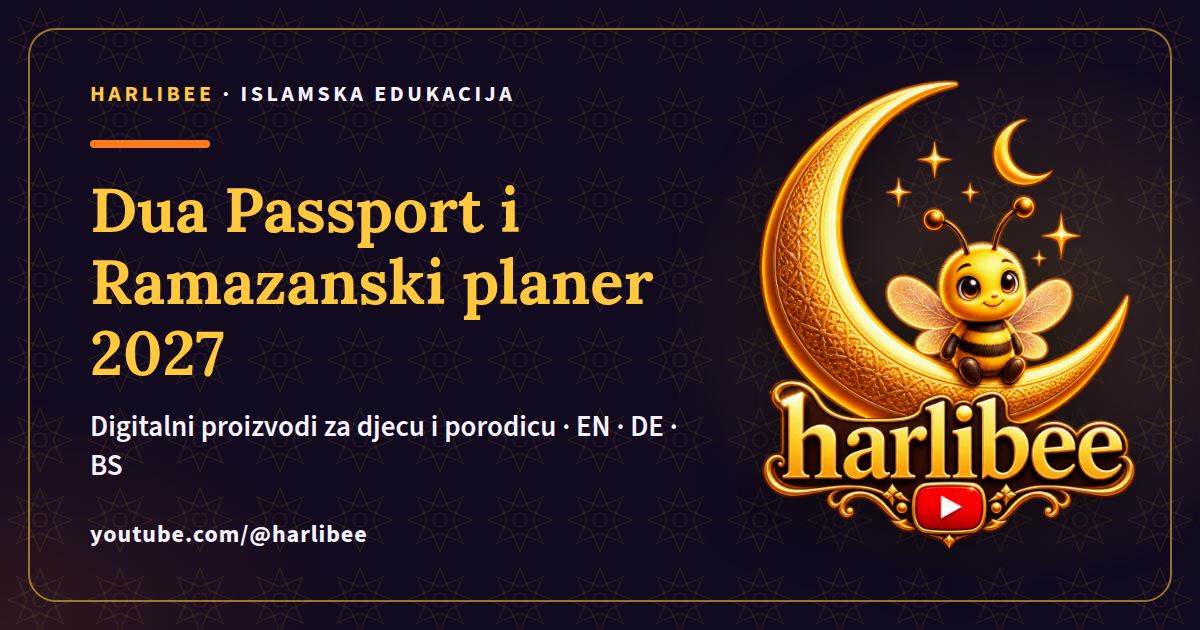
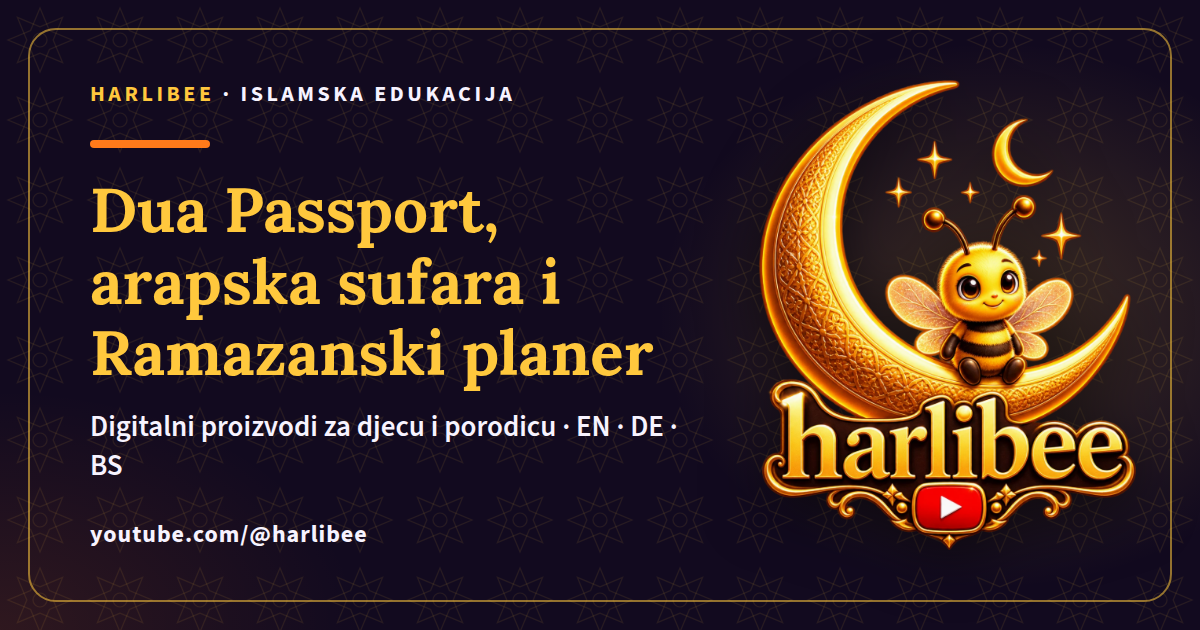
Proizvodi: dodane kartice arapskih harfova (Arabic Alphabet Flash Cards)
Treći proizvod na stranici /proizvodi/ i na početnoj (sada tri kartice u
redu), s opisom na bosanskom, cijenom, slikama i linkom na Payhip.
Strukturirani podaci, opis stranice i Open Graph slika ažurirani; cijena
na karticama je sada zlatna kao na stranici proizvoda.

Claude-Session: https://claude.ai/code/session_01NZznYVfF15sJZXw3qxt21U

Changed region(s): [[0.0617, 0.3016, 0.555, 0.6333]]

diff --git a/proizvodi/index.html b/proizvodi/index.html
@@ -4,7 +4,7 @@
   <meta charset="utf-8">
   <meta name="viewport" content="width=device-width, initial-scale=1">
   <title>Digitalni proizvodi | Harlibee</title>
-  <meta name="description" content="Little Muslim&#x27;s Dua Passport i Ramazanski planer 2027 s dnevnikom za djecu: materijali za štampanje na engleskom, njemačkom i bosanskom, dostupni na Payhipu.">
+  <meta name="description" content="Little Muslim&#x27;s Dua Passport, kartice arapskih harfova i Ramazanski planer 2027 s dnevnikom za djecu: materijali za štampanje na engleskom, njemačkom i bosanskom, dostupni na Payhipu.">
   <link rel="canonical" href="https://br0nhi.github.io/harlibee/proizvodi/">
   <meta name="theme-color" content="#120A1F">
   <meta name="color-scheme" content="dark">
@@ -18,13 +18,13 @@
   <meta property="og:site_name" content="Harlibee">
   <meta property="og:locale" content="bs_BA">
   <meta property="og:title" content="Digitalni proizvodi">
-  <meta property="og:description" content="Little Muslim&#x27;s Dua Passport i Ramazanski planer 2027 s dnevnikom za djecu: materijali za štampanje na engleskom, njemačkom i bosanskom, dostupni na Payhipu.">
+  <meta property="og:description" content="Little Muslim&#x27;s Dua Passport, kartice arapskih harfova i Ramazanski planer 2027 s dnevnikom za djecu: materijali za štampanje na engleskom, njemačkom i bosanskom, dostupni na Payhipu.">
   <meta property="og:url" content="https://br0nhi.github.io/harlibee/proizvodi/">
   <meta property="og:image" content="https://br0nhi.github.io/harlibee/assets/img/og/og-proizvodi.png">
   <meta property="og:image:type" content="image/png">
   <meta property="og:image:width" content="1200">
   <meta property="og:image:height" content="630">
-  <meta property="og:image:alt" content="Digitalni proizvodi Harlibee: Dua Passport i Ramazanski planer">
+  <meta property="og:image:alt" content="Digitalni proizvodi Harlibee: Dua Passport, kartice arapskih harfova i Ramazanski planer">
   <meta name="twitter:card" content="summary_large_image">
 
   <link rel="preload" href="../assets/fonts/SourceSans3-400-latin.woff2" as="font" type="font/woff2" crossorigin>
@@ -47,6 +47,20 @@
           "priceCurrency": "EUR",
           "availability": "https://schema.org/InStock",
           "url": "https://payhip.com/b/m3DeU"
+        }
+      },
+      {
+        "@type": "Product",
+        "name": "Arabic Alphabet Flash Cards",
+        "description": "Kartice za učenje 28 arapskih harfova, vježbe pisanja, poster sufare i 4 zidne slike. Za djecu od 3 do 8 godina, na engleskom, njemačkom i bosanskom.",
+        "image": "https://br0nhi.github.io/harlibee/assets/img/proizvodi/arapska-sufara.webp",
+        "url": "https://br0nhi.github.io/harlibee/proizvodi/#arapska-sufara",
+        "offers": {
+          "@type": "Offer",
+          "price": "5.99",
+          "priceCurrency": "EUR",
+          "availability": "https://schema.org/InStock",
+          "url": "https://payhip.com/b/r8ORU"
         }
       },
       {
@@ -131,6 +145,36 @@
             <p><strong>Dove u pasošu:</strong> buđenje, prije spavanja, prije i poslije jela, ulazak u toalet i izlazak iz njega, ulazak u kuću i izlazak iz nje, ulazak u džamiju i izlazak iz nje, gledanje u ogledalo, kihanje, putovanje, kiša, kad vidiš nešto lijepo, traženje zaštite, briga, zahvaljivanje, selam, kad se desi nešto dobro, prije učenja, za roditelje, kad je nešto teško, za lijep život, kad pogriješim, nakon abdesta, posjeta bolesniku, za moju porodicu, za čvrsto srce i salavat na Poslanika ﷺ.</p>
             <p>Za djecu od 4 do 10 godina, za mekteb, vikend-školu, učenje kod kuće i kao poklon za Bajram ili rođendan. Štampa se na A4 papir; za kartice je preporučen deblji papir (karton).</p>
             <p class="form-hint">Dobijate 1 PDF fajl (1 MB). Digitalni proizvod, ništa se ne šalje poštom. Samo za ličnu upotrebu i upotrebu u učionici. Arapski tekstovi su poznate dove iz Kur&#x27;ana i Sunneta; tekst dova provjerite s učiteljem.</p>
+          </div>
+        </div>
+      </div>
+    </section>
+    <section class="section product-detail" id="arapska-sufara" aria-labelledby="arapska-sufara-title">
+      <div class="container product-grid">
+        <div class="product-gallery">
+          <img src="../assets/img/proizvodi/arapska-sufara.webp" alt="Naslovnica proizvoda Arabic Alphabet Flash Cards s karticama harfova Elif, Be, Te i Se i posterom sufare" width="1000" height="750" decoding="async">
+            <img src="../assets/img/proizvodi/arapska-sufara-sadrzaj.webp" alt="Pregled sadržaja: kartice harfova, vježba pisanja harfa Džim, poster sufare i četiri zidne slike s natpisima Bismillah, Subhanallah, Elhamdulillah i Allahu ekber" width="1000" height="750" loading="lazy" decoding="async">
+        </div>
+        <div class="product-info">
+          <p class="meta"><span class="badge badge--outline">6 PDF-ova · 43 stranice · A4</span></p>
+          <h2 id="arapska-sufara-title">Arabic Alphabet Flash Cards</h2>
+          <p class="product-sub">Kartice za učenje arapskih harfova, vježbe pisanja i zidne slike</p>
+          <div class="product-buy">
+            <p class="product-price"><span class="visually-hidden">Cijena: </span>€5,99</p>
+            <a class="btn" href="https://payhip.com/b/r8ORU" target="_blank" rel="noopener">Kupi na Payhipu<span class="visually-hidden">: Arabic Alphabet Flash Cards (novi prozor)</span></a>
+          </div>
+          <div class="prose product-prose">
+            <p>Šaren i razigran način da djeca nauče 28 arapskih harfova (sufaru) kod kuće, u vikend-školi ili u mektebu. Preuzimanje odmah, na engleskom, njemačkom i bosanskom.</p>
+            <h3>Šta dobijate (43 stranice za štampanje, A4)</h3>
+            <ul>
+              <li>28 kartica (4 na stranici, veličine A6): veliki harf, njegov naziv, sva četiri oblika harfa (samostalni, početni, srednji i krajnji) i primjer riječi sa slikom</li>
+              <li>28 vježbi za precrtavanje i pisanje, po jedna za svaki harf</li>
+              <li>poster sufare</li>
+              <li>4 zidne slike za dječiju sobu: Bismillah, Subhanallah, Elhamdulillah i Allahu ekber, s arapskim tekstom, transliteracijom i značenjem</li>
+            </ul>
+            <p>Bosanska verzija koristi tradicionalne nazive harfova iz sufare (Elif, Be, Te…). Za djecu od 3 do 8 godina, za kuću i mekteb.</p>
+            <p><strong>Savjet:</strong> kartice odštampajte na deblji papir i plastificirajte ih.</p>
+            <p class="form-hint">Dobijate 1 ZIP fajl sa 6 PDF-ova (kartice i zidne slike na EN, DE i BS; 2 MB). Digitalni proizvod, ništa se ne šalje poštom. Za ličnu upotrebu i upotrebu u učionici.</p>
           </div>
         </div>
       </div>

diff --git a/index.html b/index.html
@@ -229,11 +229,11 @@
           <div>
             <p class="eyebrow">Za porodicu i mekteb</p>
             <h2 id="proizvodi-title">Digitalni proizvodi</h2>
-            <p>Materijali za štampanje na engleskom, njemačkom i bosanskom: za djecu koja uče dove i za porodicu koja se priprema za ramazan.</p>
+            <p>Materijali za štampanje na engleskom, njemačkom i bosanskom: za djecu koja uče dove i harfove, i za porodicu koja se priprema za ramazan.</p>
           </div>
           <a class="link-arrow" href="proizvodi/">Svi proizvodi</a>
         </div>
-        <div class="grid grid--2">
+        <div class="grid grid--3">
           <article class="card product-card">
             <img class="product-cover" src="assets/img/proizvodi/dua-passport.webp" alt="Naslovnica proizvoda Little Muslim&#x27;s Dua Passport s karticama dova, stranicom za pečate i zahvalnicom" width="800" height="800" loading="lazy" decoding="async">
             <div class="product-body">
@@ -246,6 +246,20 @@
                 <a class="btn" href="https://payhip.com/b/m3DeU" target="_blank" rel="noopener">Pogledaj na Payhipu<span class="visually-hidden">: Little Muslim&#x27;s Dua Passport (novi prozor)</span></a>
               </div>
               <a class="link-arrow" href="proizvodi/#dua-passport">Više o proizvodu<span class="visually-hidden">: Little Muslim&#x27;s Dua Passport</span></a>
+            </div>
+          </article>
+          <article class="card product-card">
+            <img class="product-cover" src="assets/img/proizvodi/arapska-sufara.webp" alt="Naslovnica proizvoda Arabic Alphabet Flash Cards s karticama harfova Elif, Be, Te i Se i posterom sufare" width="1000" height="750" loading="lazy" decoding="async">
+            <div class="product-body">
+              <p class="meta"><span class="badge badge--outline">6 PDF-ova · 43 stranice · A4</span></p>
+              <h3>Arabic Alphabet Flash Cards</h3>
+              <p class="product-sub">Kartice za učenje arapskih harfova, vježbe pisanja i zidne slike</p>
+              <p>Kartice za učenje 28 arapskih harfova, vježbe pisanja, poster sufare i 4 zidne slike. Za djecu od 3 do 8 godina, na engleskom, njemačkom i bosanskom.</p>
+              <div class="product-buy">
+                <p class="product-price"><span class="visually-hidden">Cijena: </span>€5,99</p>
+                <a class="btn" href="https://payhip.com/b/r8ORU" target="_blank" rel="noopener">Pogledaj na Payhipu<span class="visually-hidden">: Arabic Alphabet Flash Cards (novi prozor)</span></a>
+              </div>
+              <a class="link-arrow" href="proizvodi/#arapska-sufara">Više o proizvodu<span class="visually-hidden">: Arabic Alphabet Flash Cards</span></a>
             </div>
           </article>
           <article class="card product-card">

diff --git a/assets/css/style.css b/assets/css/style.css
@@ -516,7 +516,7 @@ input:focus-visible, select:focus-visible { border-color: var(--gold); }
 .product-body > p:not(.meta):not(.product-sub) { margin: 0; }
 .product-buy { display: flex; flex-wrap: wrap; align-items: center; gap: .8rem 1.4rem; margin: .6rem 0 .2rem; }
 .product-body .product-buy { margin-top: auto; padding-top: .6rem; }
-.product-price { margin: 0; font: 700 1.9rem/1 var(--font-head); color: var(--gold); }
+.product-price, .card .product-price { margin: 0; font: 700 1.9rem/1 var(--font-head); color: var(--gold); }
 .product-detail + .product-detail { border-top: 1px solid var(--line); }
 .product-grid { display: grid; grid-template-columns: 1fr 1.1fr; gap: clamp(2rem, 5vw, 4rem); align-items: start; }
 .product-gallery { display: grid; gap: 1rem; position: sticky; top: 6.5rem; }
